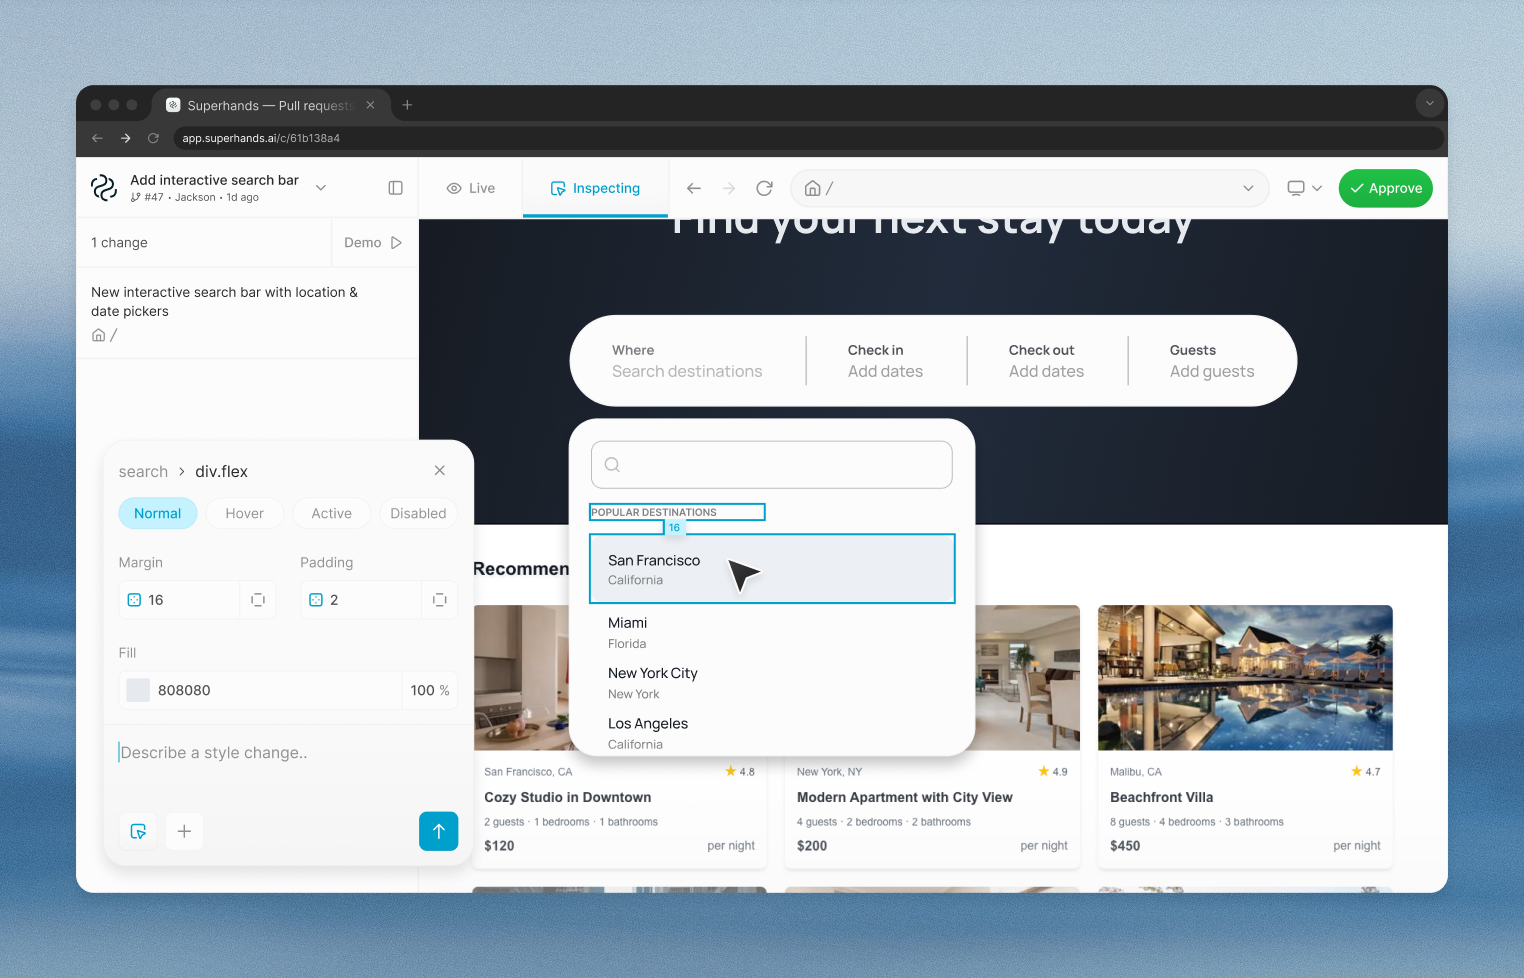
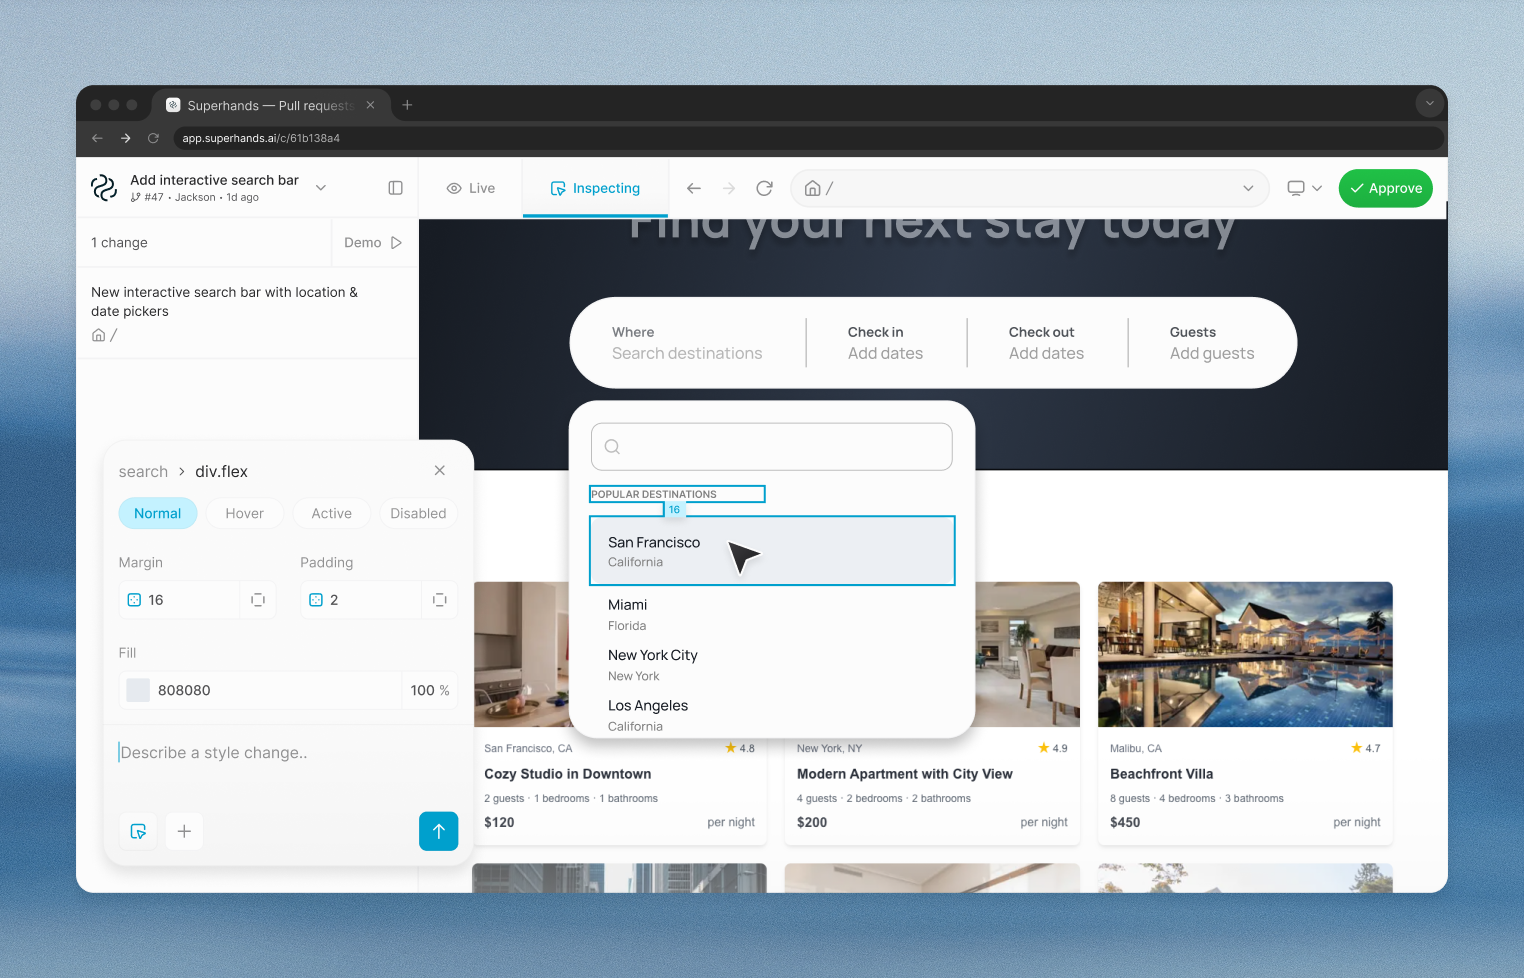
feat: refine responsive typography, layout scaling, and CTA polish
Adjust heading sizes and image scaling across md/lg breakpoints for
better visual balance on mid-size screens. Shrink setup-flow tile and
connectors at md, add dot-march hover animation to footer links, and
fix CTA border radius and SVG overflow.

Made-with: Cursor

Changed region(s): [[0.3084, 0.2761, 0.956, 0.9202], [0.4009, 0.2147, 0.8327, 0.2454], [0.8635, 0.8589, 0.9252, 0.9202]]

diff --git a/src/components/landing/setup-flow-section.tsx b/src/components/landing/setup-flow-section.tsx
@@ -383,15 +383,14 @@ export function SetupFlowSection() {
 
       {/* Desktop: positioned illustration */}
       <div
-        className="relative hidden md:block w-full"
-        style={{ aspectRatio: "816 / 430" }}
+        className="relative hidden md:block w-full aspect-[816/430] md:aspect-[816/500] lg:aspect-[816/430] 2xl:aspect-[816/390]"
       >
         {/* Top-left text */}
-        <div className="absolute left-0 top-0 w-[300px]">
+        <div className="absolute left-0 top-0 w-[300px] md:w-[220px] lg:w-[300px]">
           <p className="text-base font-medium leading-[1.44] text-[var(--landing-fg-secondary)] font-body">
             To set up
           </p>
-          <h2 className="mt-2 text-[28px] font-semibold leading-[1.1] font-heading">
+          <h2 className="mt-2 text-[28px] md:text-[22px] lg:text-[28px] font-semibold leading-[1.1] font-heading">
             <span className="text-[var(--landing-fg)]">Connect Superhands to </span>
             <span className="text-[#51caeb]">GitHub</span>
           </h2>
@@ -400,15 +399,15 @@ export function SetupFlowSection() {
         {/* Left connector */}
         <div
           className="absolute"
-          style={{ left: "10%", top: "26%", width: "44%", height: "27.2%" }}
+          style={{ left: "10%", top: "30%", width: "44%", height: "27.2%" }}
         >
           <ConnectorLeft className="size-full" progress={dotProgress} glow={glowOpacity} />
         </div>
 
         {/* Center tile */}
         <div
-          className="absolute z-10 flex items-center justify-center"
-          style={{ left: "50%", top: "52%", transform: "translate(-50%, -50%)", width: "124px", height: "124px" }}
+          className="absolute z-10 flex items-center justify-center w-[124px] h-[124px] md:w-[80px] md:h-[80px] lg:w-[100px] lg:h-[100px]"
+          style={{ left: "50%", top: "56%", transform: "translate(-50%, -50%)" }}
         >
           <SuperhandsTile progress={tileProgress} isSafari={isSafari} onGlow={handleGlow} />
         </div>
@@ -416,17 +415,17 @@ export function SetupFlowSection() {
         {/* Right connector */}
         <div
           className="absolute"
-          style={{ left: "46%", top: "50%", width: "44%", height: "27.3%" }}
+          style={{ left: "46%", top: "54%", width: "44%", height: "27.3%" }}
         >
           <ConnectorRight className="size-full" progress={dotProgress} glow={glowOpacity} />
         </div>
 
         {/* Bottom-right text */}
-        <div className="absolute right-0 text-right" style={{ top: "78%", width: "320px" }}>
+        <div className="absolute right-0 text-right md:w-[240px] lg:w-[320px]" style={{ top: "78%" }}>
           <p className="text-base font-medium leading-[1.44] text-[var(--landing-fg-secondary)] font-body">
             and&nbsp;&nbsp;bring
           </p>
-          <h2 className="mt-2 text-[28px] font-semibold leading-[1.1] font-heading">
+          <h2 className="mt-2 text-[28px] md:text-[22px] lg:text-[28px] font-semibold leading-[1.1] font-heading">
             <span className="text-[#51caeb]">designers</span>
             <span className="text-[var(--landing-fg)]"> into the pull request flow.</span>
           </h2>

diff --git a/src/components/landing/feature-sections.tsx b/src/components/landing/feature-sections.tsx
@@ -14,19 +14,19 @@ function FeatureLayout({
   return (
     <section className="relative px-6 md:px-10 pt-10 pb-8 md:pt-20 md:pb-20 max-w-[960px] mx-auto">
       <div
-        className={`flex flex-col items-center gap-10 md:gap-16 lg:gap-24 md:items-start ${
+        className={`flex flex-col items-center gap-10 md:gap-16 lg:gap-[60px] md:items-start ${
           reversed ? "md:flex-row-reverse" : "md:flex-row"
         }`}
       >
         <div className="order-2 md:order-none flex-1 shrink-0">
-          <h2 className="text-[28px] font-semibold leading-[1.1] font-heading text-[var(--landing-fg)] max-w-[313px]">
+          <h2 className="text-[28px] md:text-[22px] lg:text-[28px] font-semibold leading-[1.1] font-heading text-[var(--landing-fg)] max-w-[313px] md:-mt-1">
             {heading}
           </h2>
           <p className="mt-4 text-base font-medium leading-[1.44] font-body text-[var(--landing-fg-secondary)] max-w-[313px]">
             {subtext}
           </p>
         </div>
-        <div className="order-1 md:order-none shrink-0 overflow-hidden">{mockup}</div>
+        <div className="order-1 md:order-none shrink-0 overflow-hidden lg:w-[50%] lg:shrink 2xl:flex-1 2xl:basis-0">{mockup}</div>
       </div>
     </section>
   );
@@ -46,7 +46,7 @@ function SeeMockup() {
       alt="Superhands PR list showing open design changes"
       width={410}
       height={410}
-      className="w-full max-w-[410px] aspect-square md:w-[200px] md:h-[200px] md:max-w-none lg:w-[410px] lg:h-[410px] transition-transform duration-300 ease-out hover:scale-[1.01]"
+      className="w-full max-w-[410px] aspect-square md:w-[200px] md:h-[200px] md:max-w-none lg:w-full lg:h-auto lg:max-w-none 2xl:w-full 2xl:h-auto transition-transform duration-300 ease-out hover:scale-[1.01]"
       loading="lazy"
       decoding="async"
     />
@@ -77,7 +77,7 @@ function ReviewMockup() {
       alt="Superhands browser inspection interface reviewing a live UI"
       width={410}
       height={410}
-      className="w-full max-w-[410px] aspect-square md:w-[200px] md:h-[200px] md:max-w-none lg:w-[410px] lg:h-[410px] transition-transform duration-300 ease-out hover:scale-[1.01]"
+      className="w-full max-w-[410px] aspect-square md:w-[200px] md:h-[200px] md:max-w-none lg:w-full lg:h-auto lg:max-w-none 2xl:w-full 2xl:h-auto transition-transform duration-300 ease-out hover:scale-[1.01]"
       loading="lazy"
       decoding="async"
     />
@@ -109,7 +109,7 @@ function FixMockup() {
       alt="Superhands style editor panel for refining UI without code"
       width={410}
       height={410}
-      className="w-full max-w-[410px] aspect-square md:w-[200px] md:h-[200px] md:max-w-none lg:w-[410px] lg:h-[410px] transition-transform duration-300 ease-out hover:scale-[1.01]"
+      className="w-full max-w-[410px] aspect-square md:w-[200px] md:h-[200px] md:max-w-none lg:w-full lg:h-auto lg:max-w-none 2xl:w-full 2xl:h-auto transition-transform duration-300 ease-out hover:scale-[1.01]"
       loading="lazy"
       decoding="async"
     />

diff --git a/src/components/landing/cta-section.tsx b/src/components/landing/cta-section.tsx
@@ -6,7 +6,7 @@ export function CtaSection() {
     <section className="px-6 md:px-10 pt-0 pb-10 md:pb-[258px] max-w-[960px] mx-auto">
       <div className="group/cta relative rounded-[32px] px-10 py-10 md:py-12">
         <svg
-          className="absolute inset-0 w-full h-full pointer-events-none"
+          className="absolute inset-0 w-full h-full pointer-events-none overflow-hidden"
           aria-hidden="true"
         >
           <rect
@@ -26,7 +26,7 @@ export function CtaSection() {
           />
         </svg>
         <div className="relative flex items-stretch justify-between">
-          <h2 className="flex flex-col text-[28px] leading-[1.1] font-heading">
+          <h2 className="flex flex-col text-[28px] md:text-[22px] lg:text-[28px] leading-[1.1] font-heading">
             <span className="font-semibold text-[var(--landing-fg)]/50">
               Give your team
             </span>
@@ -46,7 +46,7 @@ export function CtaSection() {
         <div className="relative flex items-end justify-between mt-1.5 gap-2">
           <div className="flex-1 mb-[24px] flex">
             <div className="w-[81px] shrink-0" />
-            <div className="flex-1 h-[120px] border-l-2 border-b-2 border-[rgba(41,41,43,0.10)] rounded-bl-[60px]" />
+            <div className="flex-1 h-[120px] border-l-2 border-b-2 border-[rgba(41,41,43,0.10)] rounded-bl-[24px]" />
           </div>
 
           <a

diff --git a/src/components/landing/landing-sidebar.tsx b/src/components/landing/landing-sidebar.tsx
@@ -23,7 +23,7 @@ export function LandingSidebar() {
 
         {/* Headline */}
         <h1
-          className="mt-4 text-[40px] font-semibold leading-[1.1] text-[var(--landing-fg)] font-heading"
+          className="mt-4 text-[32px] lg:text-[40px] font-semibold leading-[1.1] text-[var(--landing-fg)] font-heading"
         >
           Pull requests
           <br />
@@ -47,9 +47,9 @@ export function LandingSidebar() {
       </div>
 
       {/* Footer links */}
-      <div className="px-10 pb-10">
+      <div className="group/footer px-10 pb-10">
         <div
-          className="mb-5 w-full"
+          className="mb-5 w-full group-has-[a:hover]/footer:animate-[dot-march_0.7s_linear_infinite]"
           style={{
             backgroundImage:
               "radial-gradient(circle, var(--landing-divider) 1px, transparent 1px)",

diff --git a/src/app/landing.css b/src/app/landing.css
@@ -42,3 +42,7 @@
 @keyframes border-march {
   to { stroke-dashoffset: -3; }
 }
+
+@keyframes dot-march {
+  to { background-position-x: 8px; }
+}

diff --git a/src/components/landing/github-section.tsx b/src/components/landing/github-section.tsx
@@ -34,7 +34,7 @@ export function GitHubSection() {
           <p className="text-[16px] font-medium leading-[1.44] text-[var(--landing-fg-secondary)] font-body">
             For engineers
           </p>
-          <h2 className="mt-2 text-[28px] font-semibold leading-[1.1] font-heading text-[var(--landing-fg)] max-w-[316px]">
+          <h2 className="mt-2 text-[28px] md:text-[22px] lg:text-[28px] font-semibold leading-[1.1] font-heading text-[var(--landing-fg)] max-w-[316px]">
             Superhands lives in your GitHub workflow
           </h2>
         </div>

diff --git a/src/components/landing/problem-section.tsx b/src/components/landing/problem-section.tsx
@@ -74,7 +74,7 @@ export function ProblemSection() {
   return (
     <section className="relative flex flex-col md:flex-row md:items-start gap-10 md:gap-20 px-6 md:px-10 pt-10 pb-8 md:pt-10 md:pb-20 max-w-[960px] mx-auto">
       {/* Heading */}
-      <h2 className="flex flex-col text-[28px] font-semibold leading-[1.1] font-heading md:flex-1">
+      <h2 className="flex flex-col text-[28px] md:text-[22px] lg:text-[28px] font-semibold leading-[1.1] font-heading md:flex-1">
         <span className="text-[var(--landing-fg)]">
           Design review is broken.{" "}
         </span>